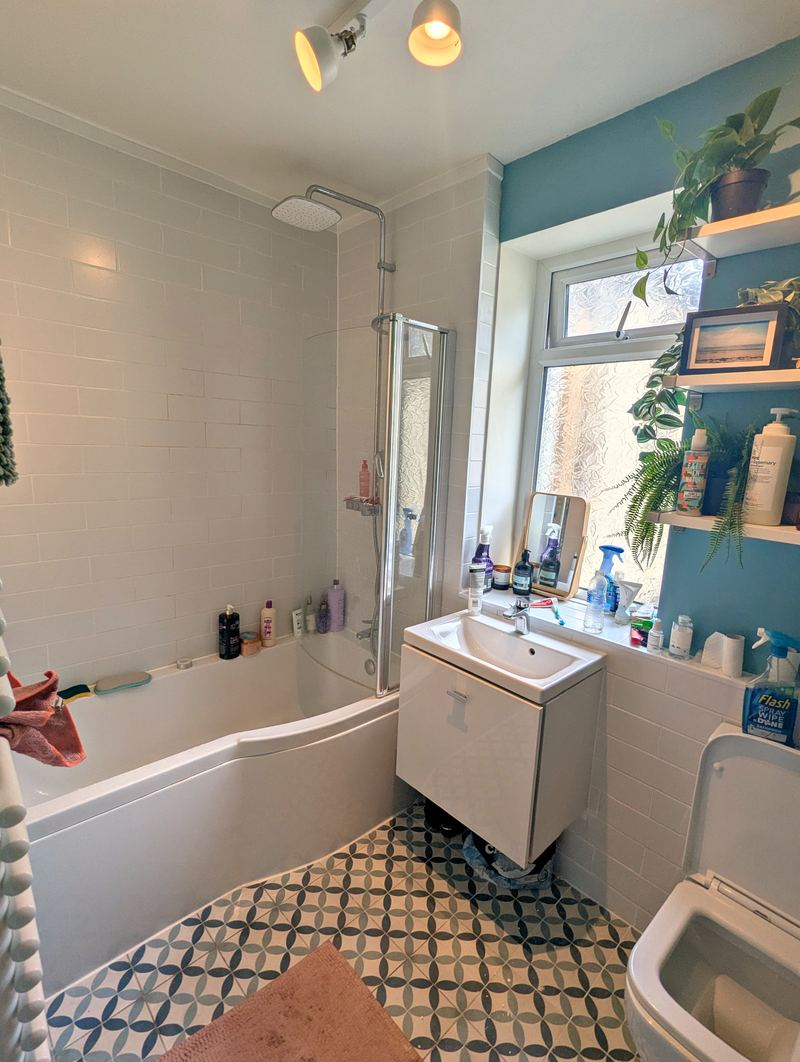
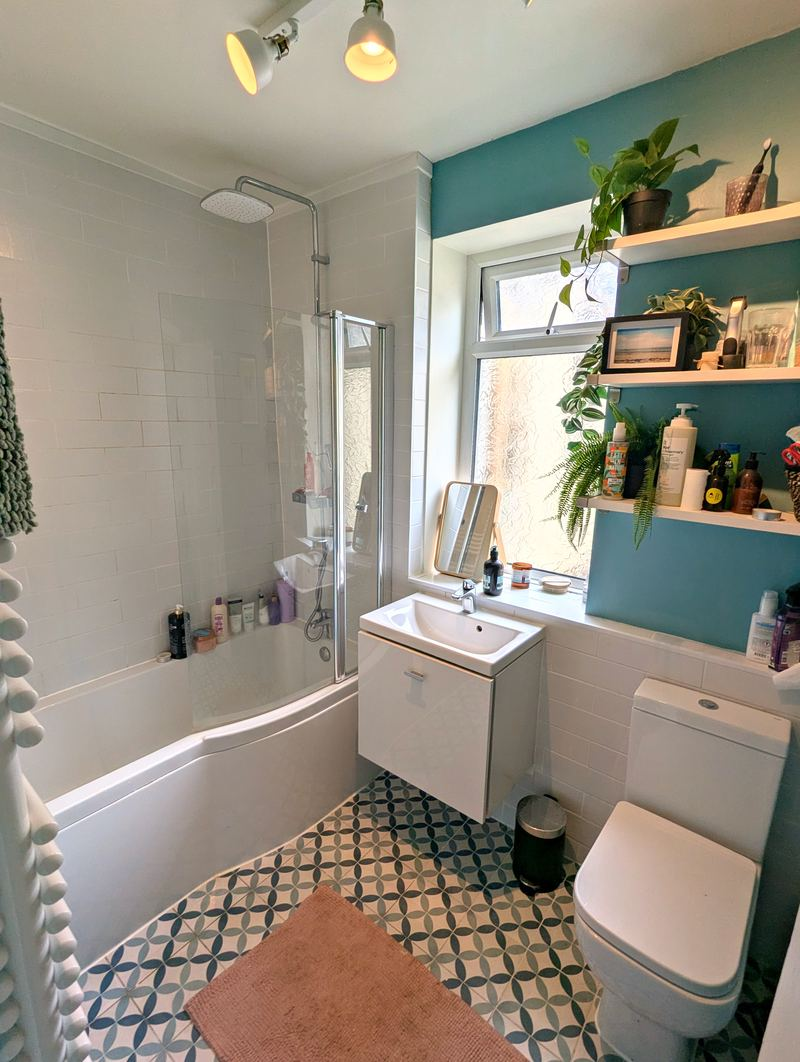
Swap in the tidier reshoot; add dining room window and garden photos
Bedroom 1 (both views), Bedroom 2, the bathroom and the dining room are
replaced with the less cluttered 22 Sept reshoot, processed to match the
brightness and warmth of the photos already on the site. Two new tiles: the
dining room's window corner, and the rear garden looking back at the house.
The gallery is now 18 photos, a full 3x6 grid.

diff --git a/index.html b/index.html
@@ -140,10 +140,16 @@
         <figcaption>Lounge</figcaption>
       </figure>
       <figure class="gallery__item">
-        <button type="button" data-full="images/dining-room-1600.jpg" data-caption="The dining room, with a fireplace and alcove shelving.">
-          <img src="images/dining-room-800.jpg" alt="Dining room with a round table and chairs, a fireplace and alcove shelving" loading="lazy" width="4080" height="3072">
+        <button type="button" data-full="images/dining-room-1600.jpg" data-caption="The dining room from the stairs, with a fireplace and alcove shelving.">
+          <img src="images/dining-room-800.jpg" alt="Dining room seen from the stairs, with a round table, fireplace, bookshelves and a piano" loading="lazy" width="4080" height="3072">
         </button>
         <figcaption>Dining room</figcaption>
+      </figure>
+      <figure class="gallery__item">
+        <button type="button" data-full="images/dining-room-window-1600.jpg" data-caption="The window corner of the dining room.">
+          <img src="images/dining-room-window-800.jpg" alt="Corner of the dining room with a tall window, a floor lamp, a cane chair and a digital piano" loading="lazy" width="3072" height="4080">
+        </button>
+        <figcaption>Dining room, window corner</figcaption>
       </figure>
       <figure class="gallery__item">
         <button type="button" data-full="images/kitchen-1600.jpg" data-caption="The kitchen, with room for a table at the garden end. It is the one room left as it is, for the new owners to make their own.">
@@ -171,7 +177,7 @@
       </figure>
       <figure class="gallery__item">
         <button type="button" data-full="images/bedroom-2-1600.jpg" data-caption="Bedroom 2, at the rear of the house.">
-          <img src="images/bedroom-2-800.jpg" alt="Bedroom 2 with pale walls, a desk, a chest of drawers and a rear window" loading="lazy" width="4080" height="3072">
+          <img src="images/bedroom-2-800.jpg" alt="Bedroom 2 with pale green walls, a desk, a chest of drawers and a rear window" loading="lazy" width="4080" height="3072">
         </button>
         <figcaption>Bedroom 2</figcaption>
       </figure>
@@ -198,6 +204,12 @@
           <img src="images/garden-roses-800.jpg" alt="Rear garden in summer with roses in bloom along a pergola and stone steps rising to the top of the garden" loading="lazy" width="1204" height="1599">
         </button>
         <figcaption>Rear garden</figcaption>
+      </figure>
+      <figure class="gallery__item">
+        <button type="button" data-full="images/garden-towards-house-1600.jpg" data-caption="The rear garden, looking back towards the house.">
+          <img src="images/garden-towards-house-800.jpg" alt="Rear garden with raised beds, a paved path and a painted shed, looking back towards the stone rear of the house" loading="lazy" width="1500" height="2000">
+        </button>
+        <figcaption>Rear garden, towards the house</figcaption>
       </figure>
       <figure class="gallery__item">
         <button type="button" data-full="images/garden-from-above-1600.jpg" data-caption="The rear garden from upstairs, with the neighbouring gardens beyond.">
